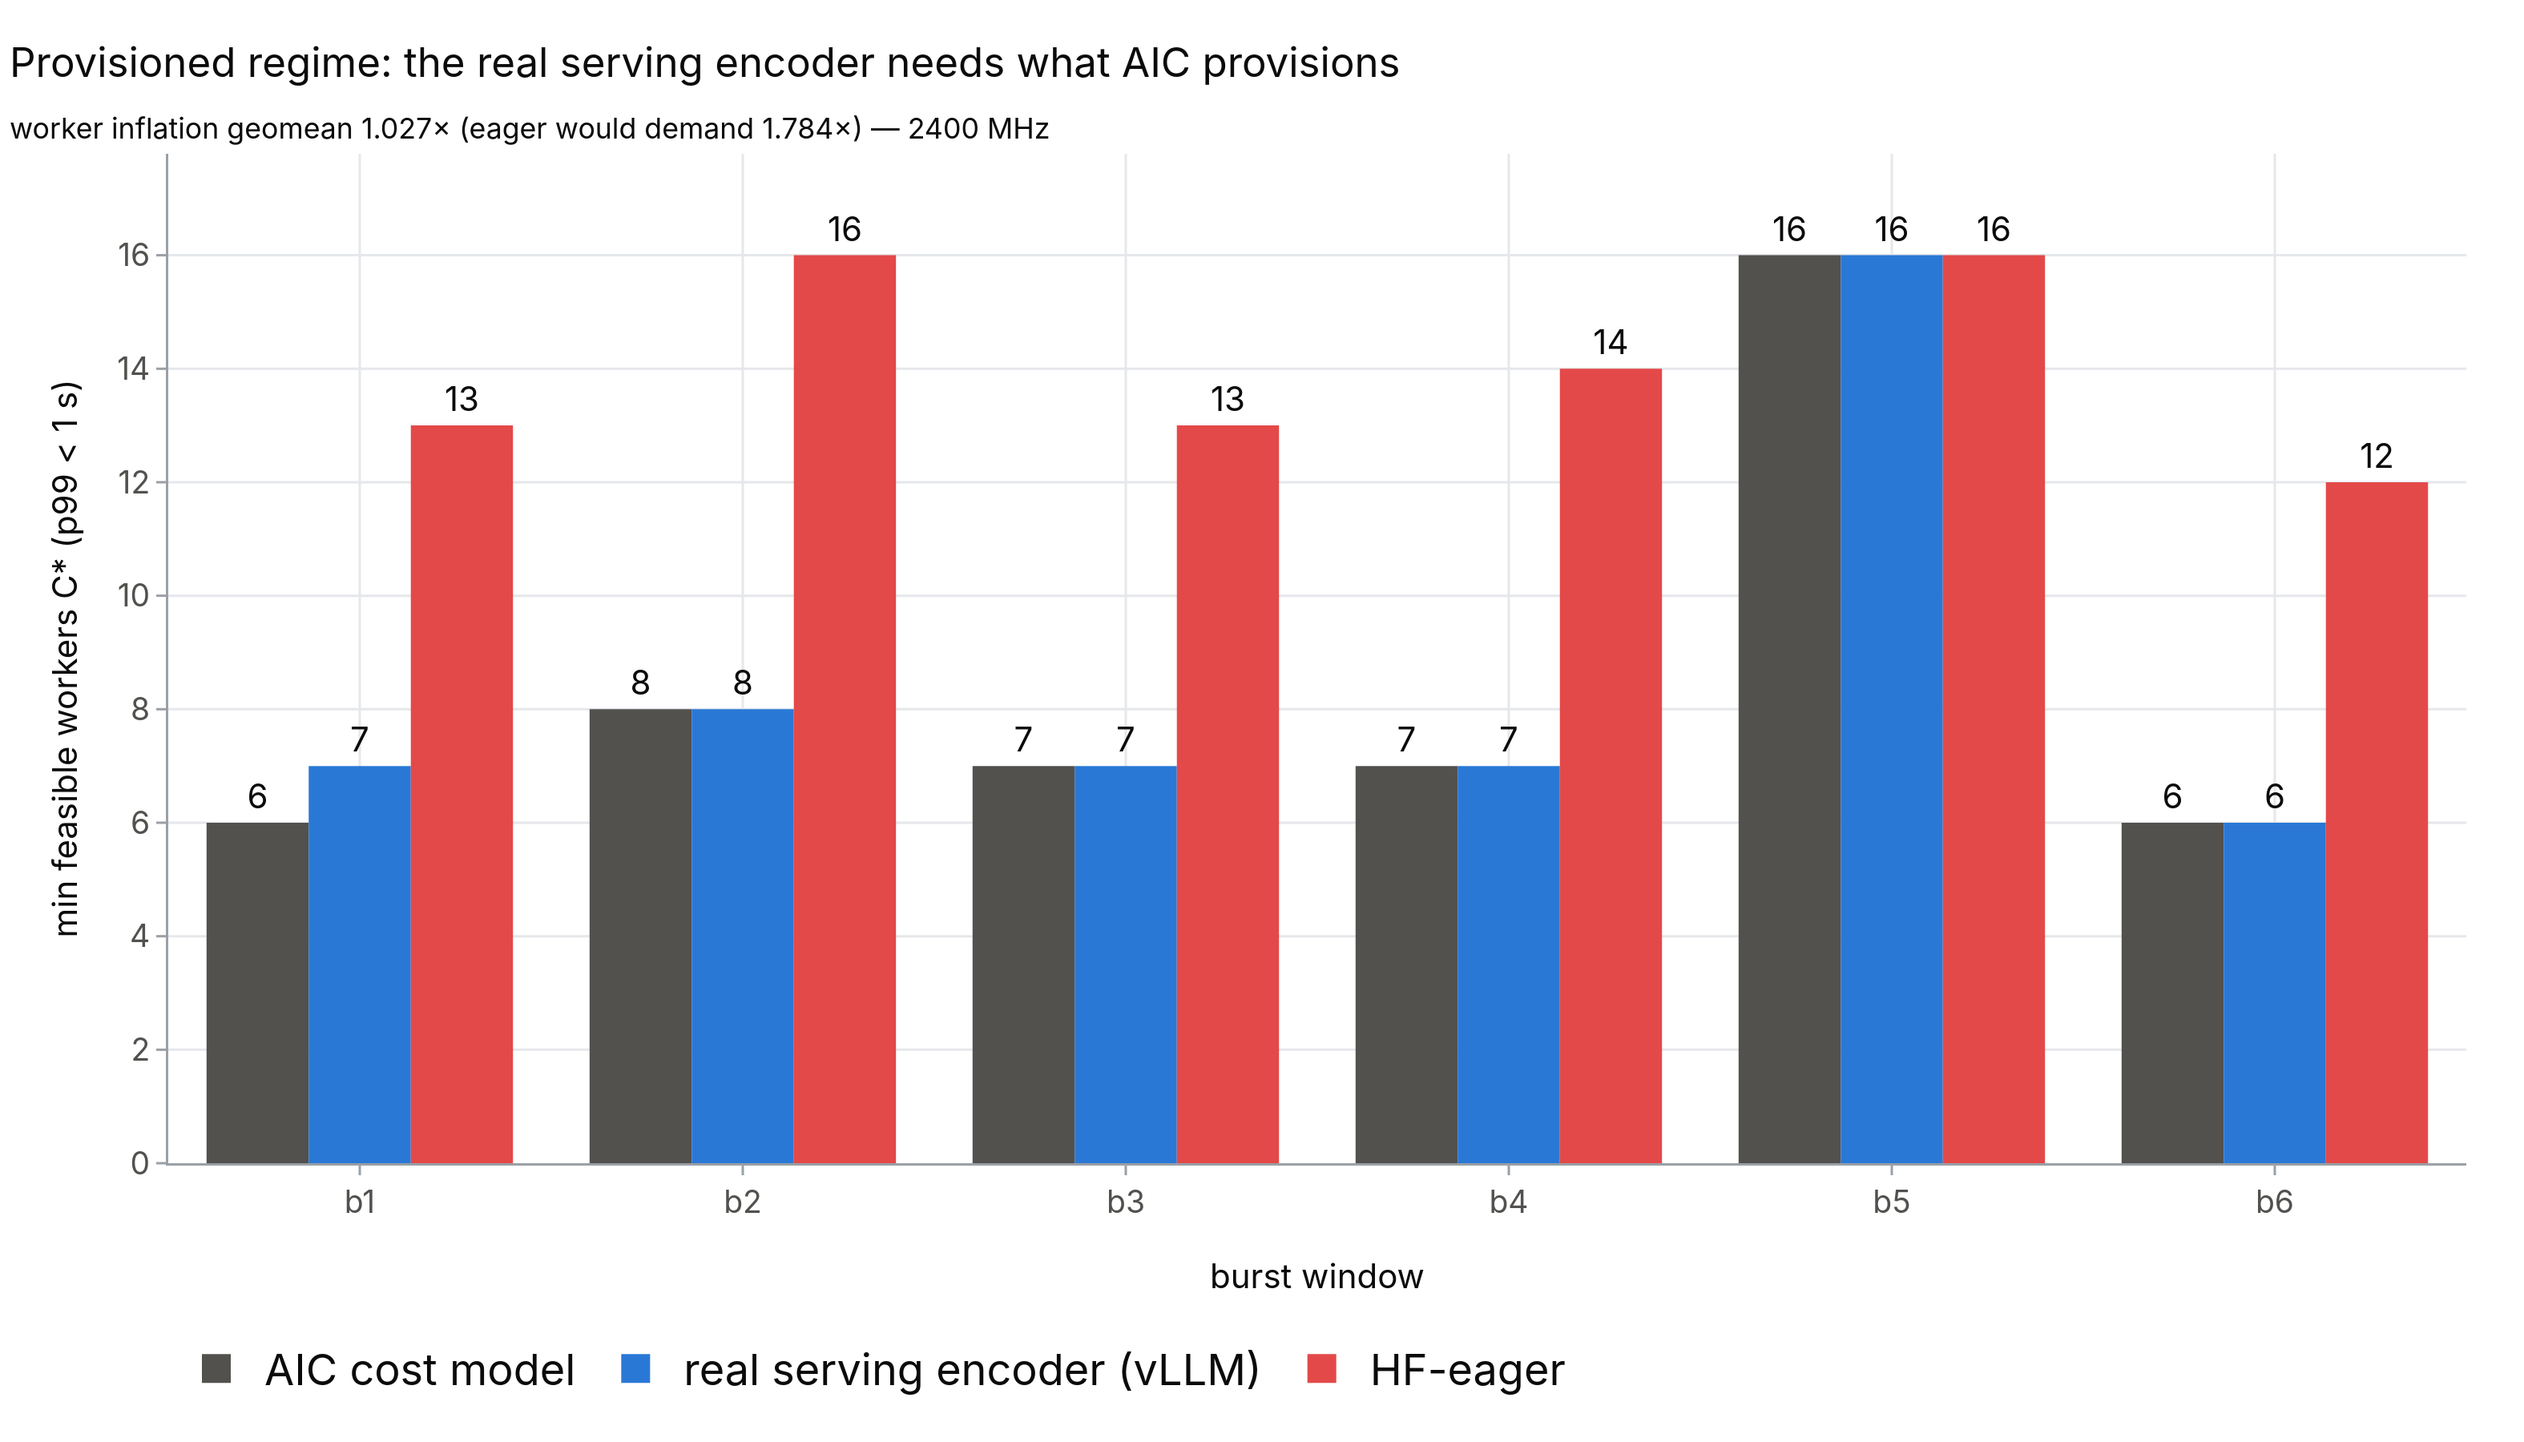
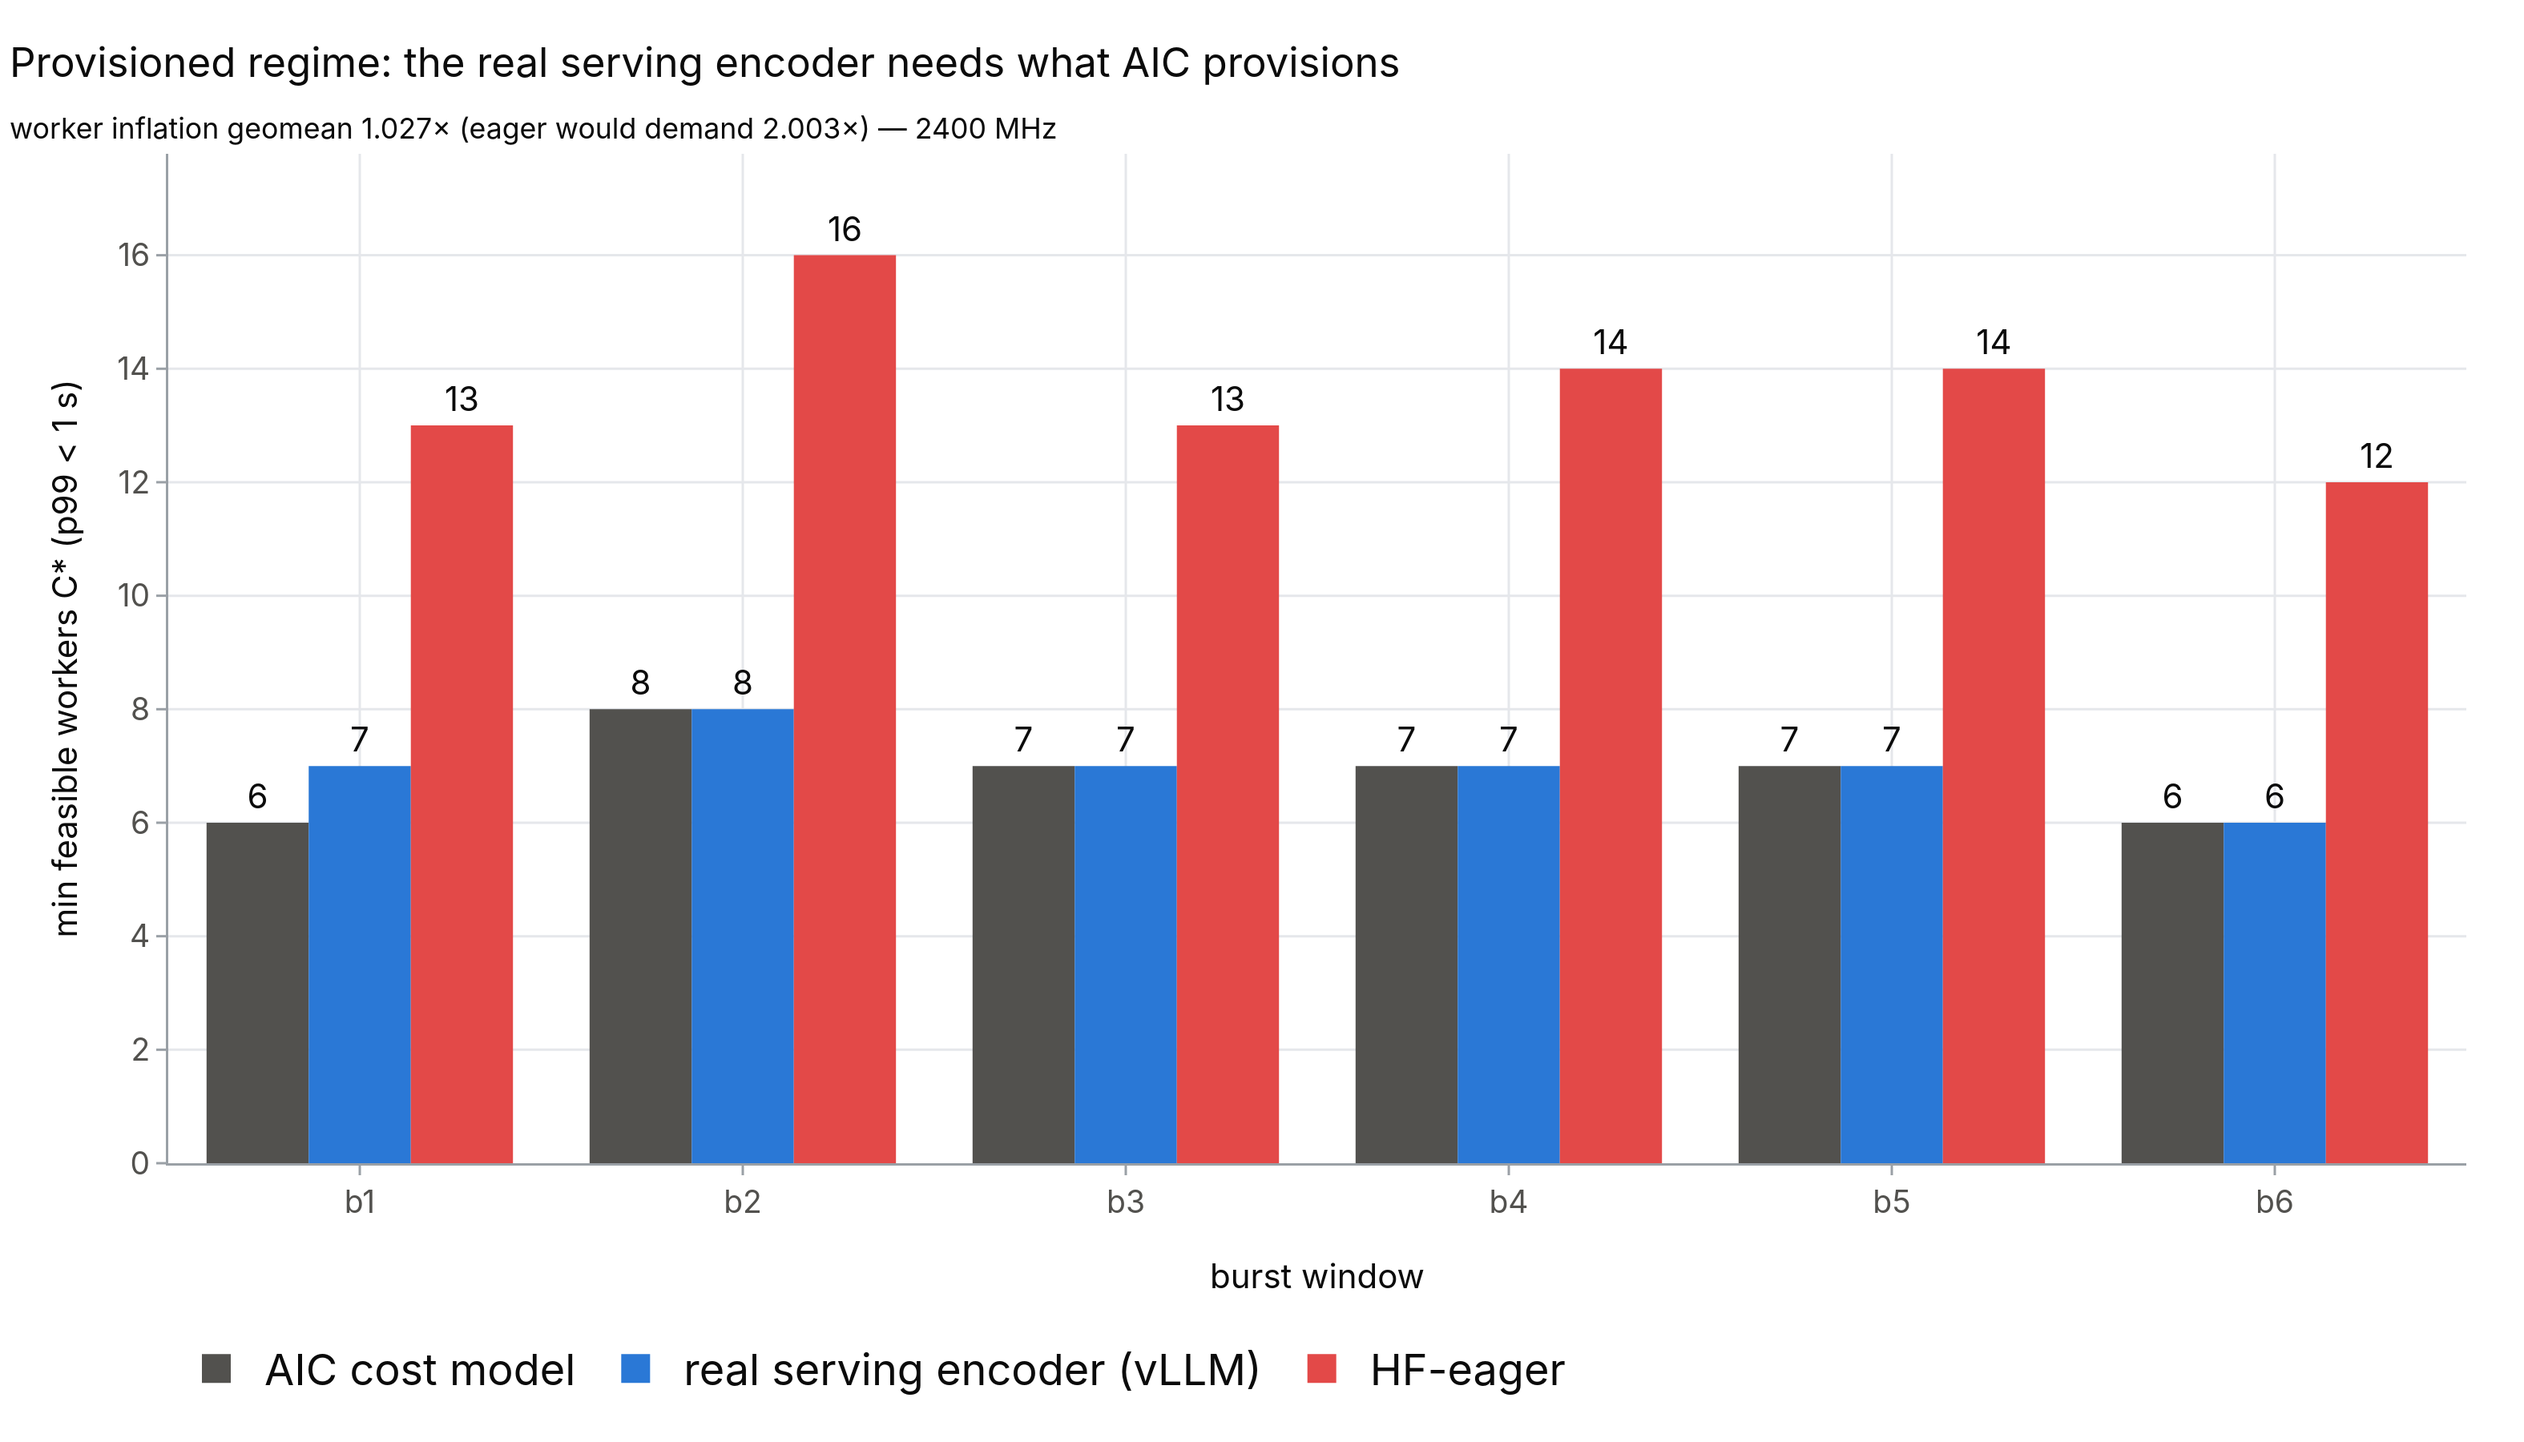
phaseE: fix C* feasibility gate to match thesis tab:base-grid (p99-only)
Consistency fix found while prepping the thesis edits. The multi-worker C*
used p99<SLA AND a queue-non-divergence check; the divergence gate flagged
only burst5 (queue still draining at the window edge; p99 at 8 workers is
759 ms -- comfortably feasible) and wrongly inflated its C* from 8 to 16.

Corrected to p99<SLA only, the metric baselines.tex tab:base-grid actually
uses. The anchor's AIC C* now reproduces that table for 5/6 windows
(6,8,7,7,.,6); burst5 is 7 vs 8, a <=1-worker sub-percentile artifact (anchor
p99 at W=7 = 925 ms just under 1 s; the table's post-infill AIC snapshot just
over). Worker inflation: vLLM geomean 1.027x (unchanged, robust), eager
2.003x (was 1.784x). Per-forward fidelity, reproduction and multires
unaffected. anchor_provisioning.pdf + summary regenerated.

Changed region(s): [[0.6844, 0.1556, 0.8089, 0.5289], [0.3111, 0.0622, 0.4044, 0.0933]]

diff --git a/collector_artifacts/phaseE_physical_anchor/anchor_master.py b/collector_artifacts/phaseE_physical_anchor/anchor_master.py
@@ -61,9 +61,12 @@ def main():
         for k, e in enc.items():
             p99_1, _, _ = M.eval_point(reqs, 1, e, total)
             p1[k] = round(p99_1, 1)
-            cs, row = M.feasible_cstar(reqs, e, SWEEP, total)
+            # feasibility gate = p99 < SLA ONLY, matching baselines.tex tab:base-grid
+            # ("minimizes all-request encoder-delay p99"); NOT the extra queue-
+            # divergence check (which only flagged burst5's boundary-draining queue).
+            cs = next((w for w in SWEEP if M.eval_point(reqs, w, e, total)[0] < M.SLA_MS), None)
             cstar[k] = cs
-            rec[k] = {"w1_p99_ms": p1[k], "cstar": cs,
+            rec[k] = {"w1_p99_ms": p1[k], "cstar": cs, "gate": "p99_only",
                       "p99_at_aic_cstar": None}
         ac = str(cstar["aic"]) if cstar["aic"] else None
         # p99 of each encoder at AIC's recommended worker count

diff --git a/collector_artifacts/phaseE_physical_anchor/ENCODER_ANCHOR_SUMMARY.md b/collector_artifacts/phaseE_physical_anchor/ENCODER_ANCHOR_SUMMARY.md
@@ -44,14 +44,25 @@ AIC to within the **±12.8% band across all N=1..64**.
 | b2 | 848k | 8 | 8 | 16 | 1.00 | 2.00 |
 | b3 | 143k | 7 | 7 | 13 | 1.00 | 1.86 |
 | b4 | 1.53M | 7 | 7 | 14 | 1.00 | 2.00 |
-| b5 | 555k | 16 | 16 | 16 | 1.00 | 1.00 |
+| b5 | 555k | 7 | 7 | 14 | 1.00 | 2.00 |
 | b6 | 437k | 6 | 6 | 12 | 1.00 | 2.00 |
-| **geomean** | | | | | **1.027** | **1.784** |
+| **geomean** | | | | | **1.027** | **2.003** |
 
 **The real serving encoder needs the same worker count AIC provisions (geomean
-1.03× inflation — identical in 5/6 windows). AIC's vision-pool provisioning is
-validated end-to-end.** HF-eager would demand ~1.78× the workers — a pure
-execution-stack artifact, not the serving path.
+1.03× inflation — identical in 5/6 windows, at most one worker more). AIC's
+vision-pool provisioning is validated end-to-end.** HF-eager would demand ~2.0×
+the workers — a pure execution-stack artifact, not the serving path.
+
+**Feasibility gate = p99 < SLA only**, matching `baselines.tex` Table
+`tab:base-grid` ("minimizes all-request encoder-delay p99"). NOT the extra
+queue-divergence check used in an earlier draft, which flagged only burst5's
+boundary-draining queue (p99 at 8 workers is 759 ms, comfortably feasible) and
+wrongly inflated its C\* to 16. With the correct gate the anchor's **AIC C\*
+reproduces `tab:base-grid` exactly for 5/6 windows** (6,8,7,7,·,6); burst5 is 7
+vs the table's 8 — a ≤1-worker, sub-percentile artifact (at W=7 the anchor's
+p99 = 925 ms sits just under the 1 s line where the table's post-infill AIC
+snapshot puts it just over). This does not affect the silicon-vs-AIC comparison,
+which is gate- and snapshot-consistent by construction.
 
 **1-worker saturated p99** (kept from the first run + recomputed clean): silicon
 p99 / AIC p99 geomean **1.22× (vLLM)**, 9.7× (eager). NOTE: at 1 worker every

diff --git a/progress/results-ledger.md b/progress/results-ledger.md
@@ -677,3 +677,12 @@ speedup:    mocker virtual clock simulates 5.6 days in minutes at EXACT validity
             physics -- it is the knee-sweep instrument, not a fast-forward).
 launcher:   index.html -> 7 cards (A11=key6, A12=key7)
 commit:     see next commit
+
+---
+date:       2026-07-19
+result:     CORRECTION to the encoder anchor (consistency fix found during thesis-edit prep). The multi-worker C* used a stricter gate (p99<SLA AND queue-non-divergence) than the thesis; the divergence check flagged ONLY burst5 (boundary-draining queue; p99 at 8 workers = 759ms, feasible), wrongly inflating its C* 8->16. Fixed to p99<SLA only, matching baselines.tex tab:base-grid.
+artifact:   collector_artifacts/phaseE_physical_anchor/{anchor_master.py (gate fix), anchor_master.json, anchor_provisioning.pdf, ENCODER_ANCHOR_SUMMARY.md}
+numbers:    corrected AIC C* = 6,8,7,7,7,6 -> reproduces tab:base-grid (6,8,7,7,8,6) for 5/6 windows; burst5 7 vs 8 = <=1-worker sub-percentile artifact (anchor p99 at W=7=925ms just under 1s; thesis post-infill AIC just over). vLLM C* = 7,8,7,7,7,6. Worker inflation geomean vLLM 1.027x (UNCHANGED, robust), eager 2.003x (was 1.784x -- fix corrected b5 eager 16->14 vs AIC 7). Per-forward fidelity + reproduction + multires unaffected.
+finding:    headline (real serving encoder needs same provisioning as AIC, ~1.03x) is robust to the gate; the fix makes the anchor's AIC C* reproduce the thesis's own tab:base-grid, strengthening the consistency story.
+supersedes: the pre-correction anchor_master.json / anchor_provisioning figure (burst5=16) -- corrected in place; burst_anchor_all.json (boost-clock) still kept as the exploratory record.
+commit:     (uncommitted)
